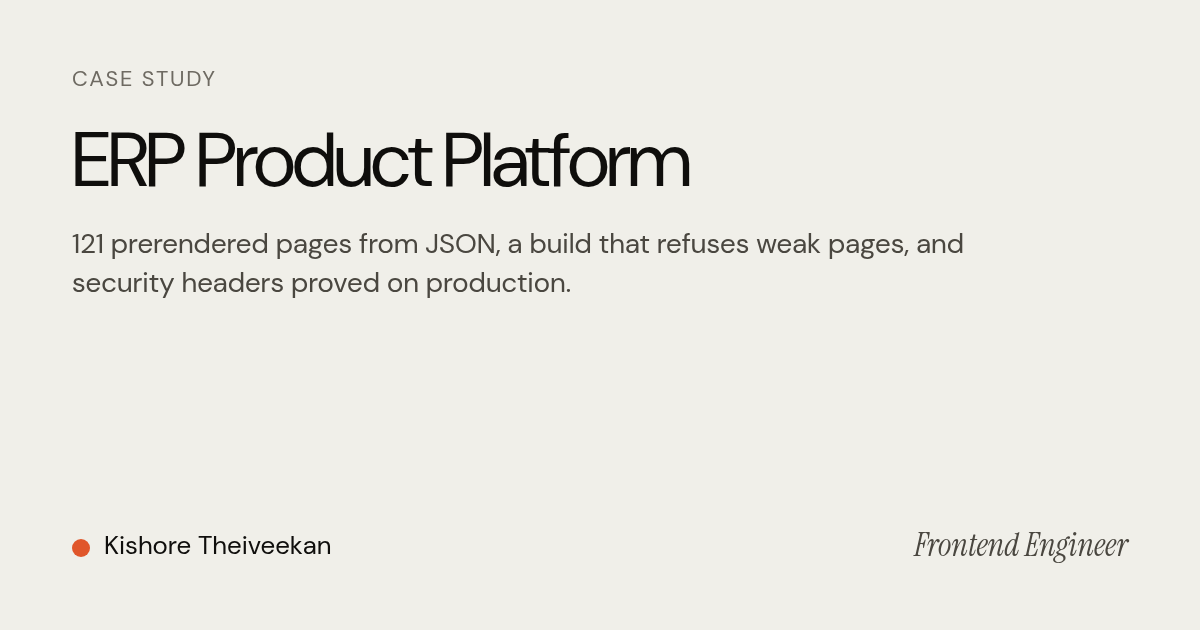
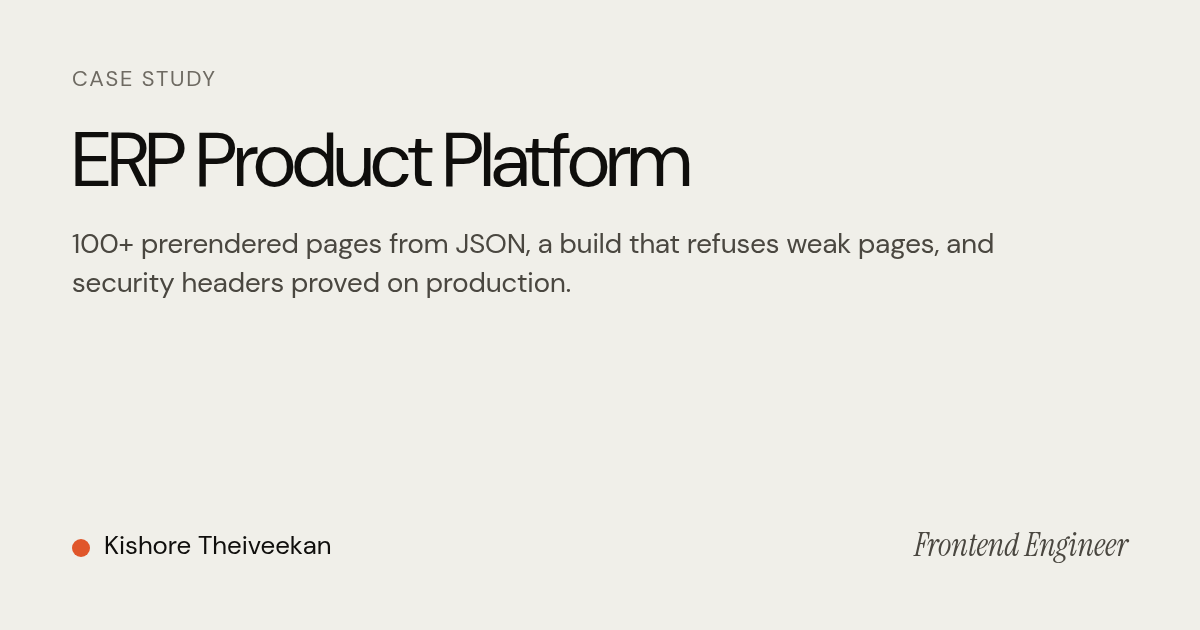
Remove relocation/visa/notice from public pages; generalise client-identifying numbers

Changed region(s): [[0.0617, 0.3619, 0.8325, 0.4222]]

diff --git a/src/content/portfolio.js b/src/content/portfolio.js
@@ -9,19 +9,19 @@ export const projects = [
     how: 'Built with an AI-assisted workflow: Claude Code scaffolded components and scene boilerplate; scene direction, animation timing, performance budgets and backend hardening were decided and verified by hand.' },
   { slug: 'erp-product-platform', num: '02', name: 'ERP Product Platform', short: 'Content as data. Quality checks as build steps.', tags: 'angular 21 • prerendering • json content • security • seo', img: '/images/work/erp-product-platform.webp', alt: 'Illustrative mockup (invented interface, no client content): a product module page and the build output with the SEO lint passing', size: 's',
     role: 'Architecture + build, lead', own: 'Lead developer, architecture to deploy', when: 'Nov 2025 – Oct 2026', stack: 'Angular 21 with prerendering, TypeScript, custom Node tooling, Python OG images, GitLab CI, Nginx, Apache',
-    overview: 'A prerendered product site where 138 JSON files drive the site\'s routes, and a custom SEO linter gates the production build.',
+    overview: 'A prerendered product site where JSON files drive the site\'s routes, and a custom SEO linter gates the production build.',
     problem: 'Adding a city page or a product guide should not mean a component deploy, and site quality should not depend on someone remembering to run Lighthouse after release.',
     built: ['A JSON content service resolving index.json → {slug}.json per category, with slug sanitisation as a path-traversal guard.', 'Build chain: mirror blog → route indices → routes → sitemap → seo-lint → ng build. Failures stop the build. OG images and layout-lint (with --selftest) run as separate commands.', 'A full security header suite: CSP allowlist, HSTS preload, COOP/CORP/COEP, Permissions-Policy, forced HTTPS behind the proxy.', 'UAT (Nginx) and production (Apache) brought to parity after a caching and missing-header mismatch was traced and fixed.'],
     code: '// one template, many pages: content lives in data\nconst page = await loadJson(`${category}/${safeSlug(slug)}.json`);\nif (!page) return notFound();\nreturn render(template[category], page);',
-    results: [['96', 'Lighthouse desktop performance'], ['138', 'JSON content files'], ['121', 'routes']],
+    results: [['96', 'Lighthouse desktop performance'], ['100+', 'prerendered routes'], ['10 → 0', 'production security findings']],
     how: 'AI tooling accelerated JSON schema drafts and linter scaffolds. Architecture, header policy, linter rules and the Nginx/Apache investigation were hands-on engineering.' },
-  { slug: 'privacy-advisory-site', num: '03', name: 'Privacy Advisory Site', short: 'A build gate that blocks blank pages, in 18 languages and Hinglish.', tags: 'react 19 • vite • prerender • i18n • indexnow', img: '/images/work/privacy-advisory-site.webp', alt: 'Illustrative mockup (invented interface, no client content): the same page in Hindi with a language switcher', size: 's',
+  { slug: 'privacy-advisory-site', num: '03', name: 'Privacy Advisory Site', short: 'A build gate that blocks blank pages, on a large multilingual site.', tags: 'react 19 • vite • prerender • i18n • indexnow', img: '/images/work/privacy-advisory-site.webp', alt: 'Illustrative mockup (invented interface, no client content): the same page in Hindi with a language switcher', size: 's',
     role: 'Build + release engineering, sole developer', own: 'Sole developer, build and release', when: 'Jul – Oct 2026', stack: 'React 19, Vite, TypeScript, Tailwind, GSAP, Lenis, Puppeteer, Docker, Railway',
-    overview: 'The public site for a privacy and cybersecurity advisory, prerendered in a real browser at build time so crawlers and AI agents get real HTML in 18 languages and Hinglish.',
+    overview: 'The public site for a privacy and cybersecurity advisory, prerendered in a real browser at build time so crawlers and AI agents get real HTML in every language.',
     problem: 'The site shipped an empty JavaScript shell to crawlers that don\'t run JavaScript (AI bots, social scrapers) for up to two weeks while the build printed a warning and exited 0. Nothing failed, so nobody noticed.',
-    built: ['A six-stage build gate: i18n parity → eslint → tsc → vite build → Puppeteer prerender → SEO validation. Strict by default: a blank page fails the build.', 'Locale parity across 18 languages and Hinglish enforced by script, not by review.', 'IndexNow submission, deploy verification and performance scripts in the release path.', 'Dockerfile, Railway config, two Nginx vhosts and Gitleaks secret scanning.'],
+    built: ['A six-stage build gate: i18n parity → eslint → tsc → vite build → Puppeteer prerender → SEO validation. Strict by default: a blank page fails the build.', 'Locale parity across every language enforced by script, not by review.', 'IndexNow submission, deploy verification and performance scripts in the release path.', 'Dockerfile, Railway config, two Nginx vhosts and Gitleaks secret scanning.'],
     code: 'for (const route of routes) {\n  const html = await renderInBrowser(route);\n  if (isEmptyShell(html)) throw new Error(`Blank page: ${route}`);\n  await writeFile(outputPath(route), html);\n}',
-    results: [['97', 'Lighthouse mobile performance'], ['18', 'languages + Hinglish, parity-gated'], ['6', 'blocking build steps']],
+    results: [['97', 'Lighthouse mobile performance'], ['6', 'blocking build steps']],
     how: 'Claude Code helped draft build scripts and locale files; deciding that a warning should be a failure, and wiring the gate so it blocks release, was the engineering.' },
   { slug: 'consent-product-site', num: '04', name: 'Consent Product Site', short: 'A consent product site with no cookies and 9 KB of JavaScript.', tags: 'vite • playwright • lighthouse ci • vercel', img: '/images/work/consent-product-site.webp', alt: 'Illustrative mockup (invented interface, no client content): a consent banner with Reject all, on a site that sets no cookies', size: 'l',
     role: 'Solo, three days', own: 'Sole developer', when: 'Aug 2026', stack: 'Vite, TypeScript, Playwright, Lighthouse CI, GitHub Actions, Vercel',
@@ -94,7 +94,7 @@ export const timeline = [
   { y: '2024', k: 'District 02 · Scale', t: 'Bigger systems, harder proof', d: 'A year of volume. Automated tests written for banking applications across Android, iOS and web, a schema-driven form builder and a two-app learning platform.', tags: ['Banking application testing', 'Form builder', 'Learning platform'], learned: 'If a check can be automated, a human should not be the one remembering to run it.' },
   { y: '2025', k: 'District 03 · Depth', t: 'Owning features inside enterprise platforms', d: 'Frontend feature owner on a 181-component finance and procurement console. Contributions to a manufacturing execution system and its documentation. An ERP product site begins.', tags: ['Finance and accounts console', 'Manufacturing execution system', 'ERP product platform'], learned: 'Security headers, caching and server configuration are part of frontend work.' },
   { y: '2026', k: 'District 04 · Craft', t: 'Motion, 3D and an AI-assisted workflow', d: 'The MES product site with three.js scenes. A cookie-consent site that ships no cookies, built in three days. A 57-route platform proven out by a tooled QA loop. A local-first AI assistant. A 59-page compliance platform site ported to Next.js. Claude Code moves from experiment to daily practice.', tags: ['MES product site', 'Advisory site · 18 languages', 'Consent product site', 'Jarvis assistant'], learned: 'AI lowers the cost of a first draft. Deciding what ships is still the job.' },
-  { y: 'Next', k: 'District 05 · Unbuilt', t: 'Open for the next platform', d: 'Products that need to be fast, secure and well designed at the same time. Open to conversations, and to relocation.', tags: [], learned: '' },
+  { y: 'Next', k: 'District 05 · Unbuilt', t: 'Open for the next platform', d: 'Products that need to be fast, secure and well designed at the same time. Open to conversations.', tags: [], learned: '' },
 ];
 
 export const stacks = [

diff --git a/src/home/Markup.tsx b/src/home/Markup.tsx
@@ -387,7 +387,7 @@ export function PageMarkup({ v }: { v: HomeView }) {
           <section data-screen-label={"Hero"} style={{ position: "relative", zIndex: "2", padding: "150px 4.5vw 0" }}>
             <p style={{ margin: "0 0 22px", fontSize: "13px", letterSpacing: ".08em", textTransform: "uppercase", color: "#6e6a62", animation: "rise-t 1s both" }}>
               <b style={{ color: "#0f0e0c", fontWeight: "500" }}>{"Kishore Theiveekan"}</b>
-              {" · Frontend Engineer · Angular · React · TypeScript · Chennai, India · open to relocation"}
+              {" · Frontend Engineer · Angular · React · TypeScript · Chennai, India"}
             </p>
             <div
               style={{
@@ -592,7 +592,7 @@ export function PageMarkup({ v }: { v: HomeView }) {
                 }}
               >
                 {
-                  "Kishore Theiveekan is a frontend engineer based in Chennai, open to relocation, with more than three and a half years at Finstein building corporate sites, product platforms, a manufacturing execution console and automated testing for banking applications."
+                  "Kishore Theiveekan is a frontend engineer based in Chennai, India, with more than three and a half years at Finstein building corporate sites, product platforms, a manufacturing execution console and automated testing for banking applications."
                 }
               </p>
               <p
@@ -634,7 +634,7 @@ export function PageMarkup({ v }: { v: HomeView }) {
                   <span>{"Profile"}</span>
                   <span style={{ display: "inline-flex", alignItems: "center", gap: "8px", color: "#f0efe9" }}>
                     <i style={{ width: "8px", height: "8px", borderRadius: "50%", background: "#7fd39f", boxShadow: "0 0 0 4px rgba(127,211,159,.18)" }}></i>
-                    {"Open to relocation"}
+                    {"Frontend engineer"}
                   </span>
                 </div>
                 <div style={{ marginTop: "auto" }}>
@@ -647,9 +647,6 @@ export function PageMarkup({ v }: { v: HomeView }) {
                     ["Focus", "Angular · React · TypeScript · three.js"],
                     ["Also", "Node and NestJS, build pipelines, security headers"],
                     ["Based in", "Chennai, India (IST, UTC+5:30)"],
-                    ["Open to", "Relocation"],
-                    ["Visa", "Needs employer visa sponsorship"],
-                    ["Notice", "1 month (flexible)"],
                     ["Languages", "English, Tamil"],
                   ].map(([k, val]) => (
                     <div key={k} style={{ display: "grid", gridTemplateColumns: "96px minmax(0,1fr)", gap: "12px", padding: "10px 0", borderTop: "1px solid rgba(240,239,233,.12)" }}>
@@ -2527,8 +2524,6 @@ export function PageMarkup({ v }: { v: HomeView }) {
           <div>
             <div style={{ fontWeight: "500", color: "#0f0e0c", marginBottom: "6px" }}>{"Kishore Theiveekan"}</div>
             {"Based in Chennai, India"}
-            <br />
-            {"Open to relocation"}
           </div>
           <div>
             <div style={{ fontWeight: "500", color: "#0f0e0c", marginBottom: "6px" }}>{"Elsewhere"}</div>

diff --git a/src/components/site/Diagrams.tsx b/src/components/site/Diagrams.tsx
@@ -54,7 +54,7 @@ function Erp() {
   const steps = ["Fetch blog posts", "Build indexes", "Generate routes", "Generate sitemap", "SEO lint", "Angular build"];
   return (
     <Frame title="ERP platform: JSON content flows through a gated build into prerendered HTML served by Nginx (UAT) and Apache (production)" height={500} caption="Content is data; every build step must pass; the headers that matter live in the server configs, because production never runs Node.">
-      <Box x={30} y={170} w={200} h={110} title="138 JSON files" sub="14 sections" tone="soft" />
+      <Box x={30} y={170} w={200} h={110} title="JSON content files" sub="one per page" tone="soft" />
       <Arrow d="M230 225 H300" />
       <rect x={300} y={40} width={300} height={420} rx={18} className="dg-group" />
       <Note x={450} y={70} anchor="middle" tone="muted">npm run build</Note>
@@ -65,7 +65,7 @@ function Erp() {
         </g>
       ))}
       <Arrow d="M600 250 H680" />
-      <Box x={680} y={195} w={210} h={110} title="121 prerendered" sub="HTML routes" tone="dark" />
+      <Box x={680} y={195} w={210} h={110} title="100+ prerendered" sub="HTML routes" tone="dark" />
       <Arrow d="M890 230 C940 230 940 140 980 140" />
       <Arrow d="M890 270 C940 270 940 360 980 360" />
       <Box x={980} y={95} w={190} h={90} title="UAT · Nginx" sub="headers in conf" />
@@ -96,7 +96,7 @@ function Privacy() {
       })}
       <Note x={20} y={50} tone="muted">npm run build (on the server that deploys, not only in CI)</Note>
       <Arrow d="M1170 150 H1188 V350 H820" />
-      <Box x={560} y={310} w={260} h={80} title="Static files → Nginx" sub="about 516 pages" tone="soft" />
+      <Box x={560} y={310} w={260} h={80} title="Static files → Nginx" sub="hundreds of pages" tone="soft" />
       <Note x={30} y={340} tone="muted">Before: Chromium missing → head-only pages → exit 0</Note>
       <line x1={30} y1={335} x2={455} y2={335} className="dg-cross" />
       <Note x={30} y={372}>Now: Chromium missing or any empty page → exit 1</Note>

diff --git a/src/components/home/WorkingWithMe.tsx b/src/components/home/WorkingWithMe.tsx
@@ -17,7 +17,7 @@ const promises: { title: string; text: string; proof: string; href: string }[] =
   {
     title: "Quality kept in the build",
     text: "SEO, translations and page content are checked on every build, so standards don't depend on anyone's memory.",
-    proof: "Six blocking build steps on a site in 18 languages",
+    proof: "Six blocking build steps on a large multilingual site",
     href: "/work/privacy-advisory-site",
   },
   {
@@ -37,9 +37,6 @@ const promises: { title: string; text: string; proof: string; href: string }[] =
 const facts: [string, string][] = [
   ["Role", "Frontend engineer · 3.5+ years"],
   ["Based in", "Chennai, India · IST (UTC+5:30)"],
-  ["Open to", "Relocation"],
-  ["Visa", "Needs employer visa sponsorship"],
-  ["Notice", "1 month (flexible)"],
   ["Works in", "English, written and spoken"],
   ["Stack", "Angular, React, Next.js, TypeScript"],
 ];

diff --git a/src/content/site.ts b/src/content/site.ts
@@ -2,7 +2,7 @@ export const site = {
   url: "https://kishore-theiveekan.vercel.app",
   name: "Kishore Theiveekan",
   title: "Kishore Theiveekan | Frontend Engineer (Angular, React, TypeScript)",
-  description: "Frontend engineer for fast, secure, multilingual web platforms in Angular, React and TypeScript. Based in Chennai, open to relocation.",
+  description: "Frontend engineer for fast, secure, multilingual web platforms in Angular, React and TypeScript. Based in Chennai, India.",
   email: "kishore.theiveekan@gmail.com",
   linkedin: "https://www.linkedin.com/in/kishore-theiveekan",
   github: "https://github.com/KishoreCR728",

diff --git a/src/app/writing/[slug]/page.tsx b/src/app/writing/[slug]/page.tsx
@@ -83,7 +83,7 @@ export default async function ArticlePage({ params }: Props) {
           </section>
           <article className="prose">{a.meta.video && <VideoBlock id={a.meta.video} />}{nodes}</article>
           <aside className="author-card" aria-label="About the author">
-            <p><b>{site.name}</b> · Frontend engineer in Chennai, open to relocation.</p>
+            <p><b>{site.name}</b> · Frontend engineer in Chennai, India.</p>
             <div>
               <a className="pill dark" href={`mailto:${site.email}`}>Email</a>
               <a className="pill" href="/Kishore-Theiveekan-CV.pdf">CV</a>

diff --git a/src/app/page.tsx b/src/app/page.tsx
@@ -21,7 +21,7 @@ const person = {
   "@id": `${site.url}/#person`,
   name: site.name,
   jobTitle: "Frontend Engineer",
-  description: "Frontend engineer in Chennai, India, building fast, secure, multilingual web platforms in Angular, React and TypeScript. Open to relocation.",
+  description: "Frontend engineer in Chennai, India, building fast, secure, multilingual web platforms in Angular, React and TypeScript.",
   url: site.url,
   email: `mailto:${site.email}`,
   sameAs: [site.linkedin, site.github],

diff --git a/src/components/site/SiteChrome.tsx b/src/components/site/SiteChrome.tsx
@@ -23,7 +23,7 @@ export function SiteHeader({ current }: { current?: Section }) {
 export function SiteFooter() {
   return (
     <footer className="site-foot">
-      <span>{site.name} · Frontend engineer · Chennai, India · open to relocation</span>
+      <span>{site.name} · Frontend engineer · Chennai, India</span>
       <nav aria-label="Elsewhere">
         <a href="/#work">Work</a>
         <a href="/writing">Writing</a>

diff --git a/src/content/work/privacy-advisory-site.md b/src/content/work/privacy-advisory-site.md
@@ -1,21 +1,20 @@
 ---
 title: Privacy Advisory Site
 order: 2
-description: A React site in 18 languages and Hinglish, prerendered in a real browser, with a build that refuses to ship blank or untranslated pages.
-oneLiner: 18 languages and Hinglish, about 516 prerendered pages, and a build that stops blank pages shipping.
+description: A large multilingual React site, prerendered in a real browser, with a build that refuses to ship blank or untranslated pages.
+oneLiner: A large multilingual site, hundreds of prerendered pages, and a build that stops blank pages shipping.
 tags: React 19 · Vite · Puppeteer prerender · i18n · Build gates
 role: Sole developer from July 2026. 330 of 388 commits
 when: Jul 2026 – present
 team: Earlier versions were started by colleagues; others later added content, locale fixes and a theme
 stack: React 19, React Router, Vite 7, TypeScript, Tailwind, Puppeteer prerendering, axe-core, GSAP, Lenis; a small Node API for forms; static files on Nginx
-scale: About 516 prerendered pages · English plus 17 languages and Hinglish
+scale: Hundreds of prerendered pages in many languages
 proof: 97 mobile / 100 desktop Lighthouse on the live site (my runs, Nov 2026) · 100 accessibility, best practices and SEO on 18 routes
 ai: Built with Claude Code as a pair; decisions, checks and verification are mine
 metric1: 97|mobile Lighthouse, live
 metric2: 851 → 387 ms|mobile LCP
 metric3: 6|blocking build steps
 article: blank-page-build-gate
-video: spotlight-privacy
 impact1: Sole developer from July 2026: 330 of 388 commits.
 impact2: My own fallback once shipped blank pages; I owned it and built the strict gate that stops it.
 impact3: Mobile LCP from about 850 ms to under 390 ms; 97 mobile Lighthouse.
@@ -58,12 +57,12 @@ Also measured and rejected: switching to `hydrateRoot` (no measurable gain) and 
 
 ## What broke, and the fix
 
-My first prerender design had a fallback: if Chromium was missing, write "head-only" pages and exit 0, "so the build can never go red". The deploy server had no Chromium. So for up to about two weeks the build printed a warning nobody saw, exited 0, and shipped about 380 normal-looking files, each with an empty `<div id="root">`.
+My first prerender design had a fallback: if Chromium was missing, write "head-only" pages and exit 0, "so the build can never go red". The deploy server had no Chromium. So for up to about two weeks the build printed a warning nobody saw, exited 0, and shipped hundreds of normal-looking files, each with an empty `<div id="root">`.
 
-- **Found:** an external SEO audit on 10 August 2026. I confirmed it with `curl` the next day: production home page 0 visible characters, my local build 15,147. Hindi and Tamil pages served English titles.
-- **Fix, 11 Aug:** strict mode in CI.
-- **Fix, 12 Aug:** strict **by default**, because the people who deploy don't run CI. Added the SEO validator to the build and a deploy check.
-- **Confirmed live** by 28 August.
+- **Found:** an external SEO audit. I confirmed it with `curl` the next day: production home page 0 visible characters, my local build thousands. Translated pages served English titles.
+- **First fix:** strict mode in CI.
+- **Real fix, a day later:** strict **by default**, because the people who deploy don't run CI. Added the SEO validator to the build and a deploy check.
+- **Confirmed live** within a few weeks.
 
 The full story is in the article [Our build said success. The crawlers saw a blank page.](/writing/blank-page-build-gate)
 

diff --git a/src/content/work/erp-product-platform.md b/src/content/work/erp-product-platform.md
@@ -1,23 +1,22 @@
 ---
 title: ERP Product Platform
 order: 1
-description: A 121-page prerendered Angular marketing site where content lives in JSON, the build refuses weak pages, and security headers were proved on production.
-oneLiner: 121 prerendered pages from JSON, a build that refuses weak pages, and security headers proved on production.
+description: A prerendered Angular marketing site with 100+ pages where content lives in JSON, the build refuses weak pages, and security headers were proved on production.
+oneLiner: 100+ prerendered pages from JSON, a build that refuses weak pages, and security headers proved on production.
 tags: Angular 21 · Prerendering · JSON content · SEO lint · Security headers
 role: Lead developer. 430 of 462 commits on the main branch
 when: Nov 2025 – present
 team: Me, plus colleagues for SEO content, the CI pipeline and a few data fixes. The team that runs the servers owns them
 stack: Angular 21 (upgraded from 19), prerendering with @angular/ssr, TypeScript, Express, Vitest, GitLab CI with security scanning
-scale: 138 JSON content pages in 14 sections · 121 prerendered routes
+scale: 100+ JSON-driven pages in many sections · 100+ prerendered routes
 proof: 96 desktop Lighthouse on the live site (my run, Nov 2026) · production security findings 10 → 0
 ai: From May 2026 some commits were written with Claude Code. Decisions and verification were mine
-metric1: 121|prerendered routes
+metric1: 100+|prerendered routes
 metric2: 10 → 0|production security findings
 metric3: 146 → 8.8 MB|SVG assets
 impact1: Led it end to end: 430 of 462 commits, from architecture to deploy.
 impact2: Made the build refuse weak pages: an SEO lint gates every release.
 impact3: Took production security findings from 10 to 0, and proved the headers with curl.
-video: spotlight-erp
 ---
 
 ## The problem
@@ -62,13 +61,13 @@ In July 2026 a check showed production serving a two-month-old build **with no s
 Follow-ups in August 2026:
 
 - The CSP blocked every analytics hit, because `*.analytics.google.com` doesn't match the bare domain. Fixing the server alone did nothing: the browser enforces both the header and the meta CSP, so the page needed a rebuild too.
-- UAT Nginx sent 66 of 121 routes through a trailing-slash redirect and returned soft 404s. Fixed, plus real 404s on Apache.
+- UAT Nginx sent more than half the routes through a trailing-slash redirect and returned soft 404s. Fixed, plus real 404s on Apache.
 - Deploy excludes had left share images and icons missing or stale on both environments. Fixed.
 - The share-image generator clipped 29 of the 122 share-image titles it generated and had left 6 of 7 product pages without an image. Fixed.
 
 ## Results
 
-- 121 pages prerendered and in the sitemap, each passing the SEO lint when added or changed.
+- 100+ pages prerendered and in the sitemap, each passing the SEO lint when added or changed.
 - Security headers live on production, checked with `curl`.
 - Production findings from penetration testing: 10 → 0.
 - SVG assets cut from 146 MB to 8.8 MB in one optimisation pass.
